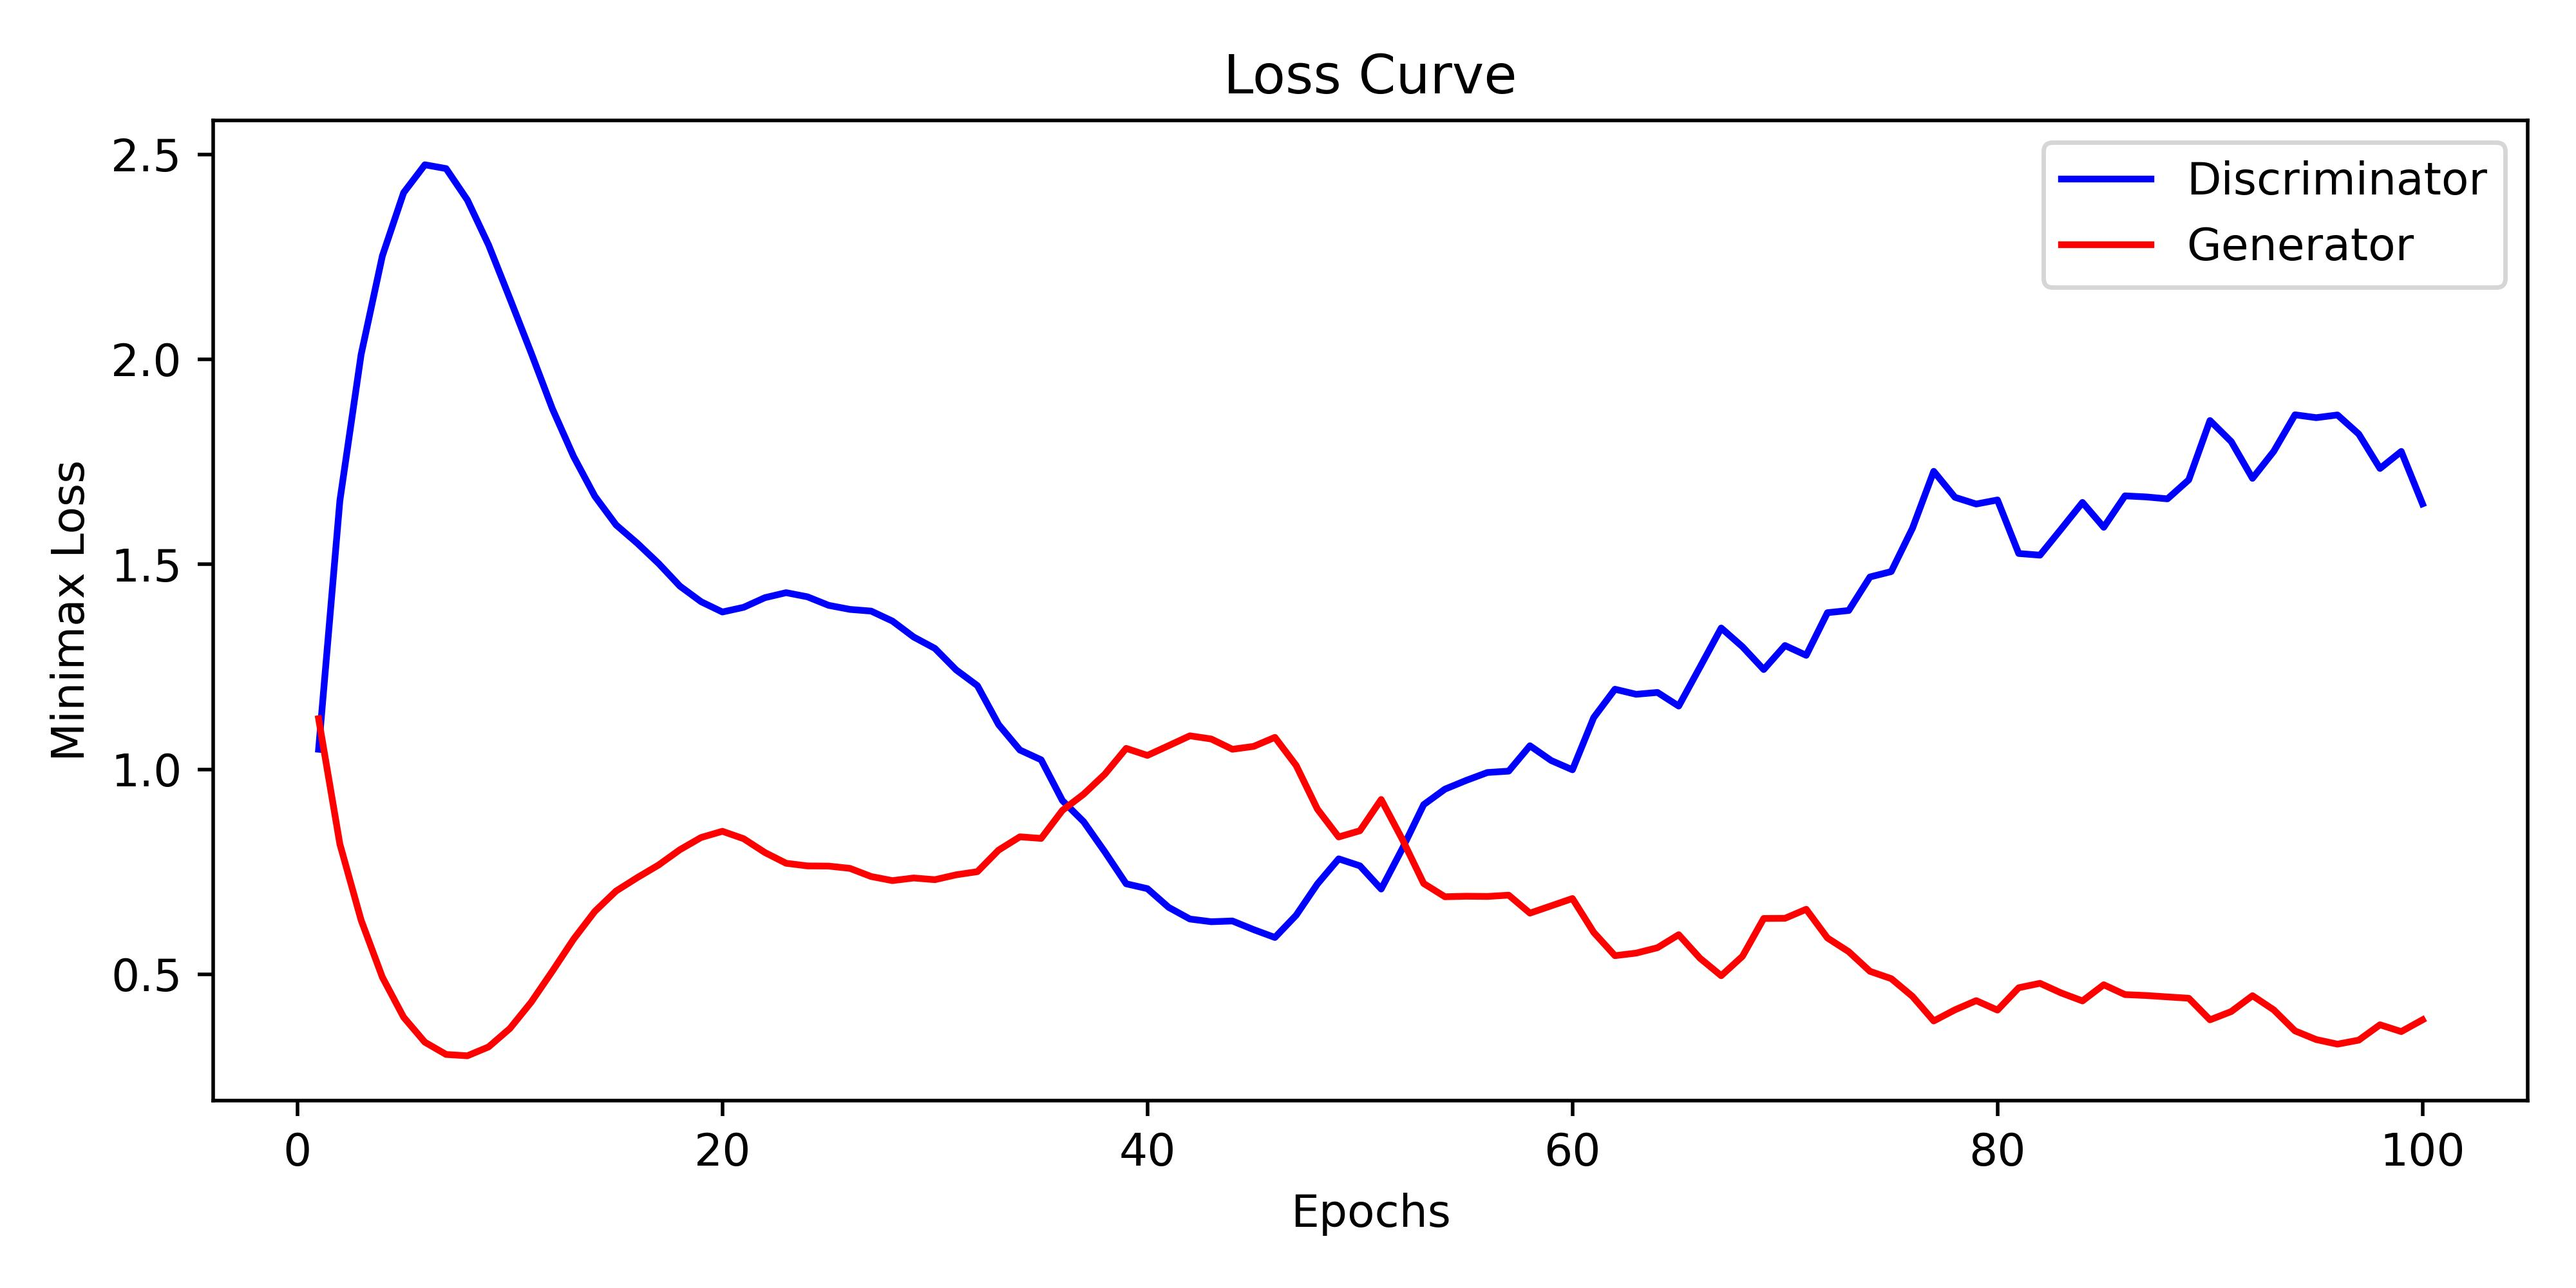
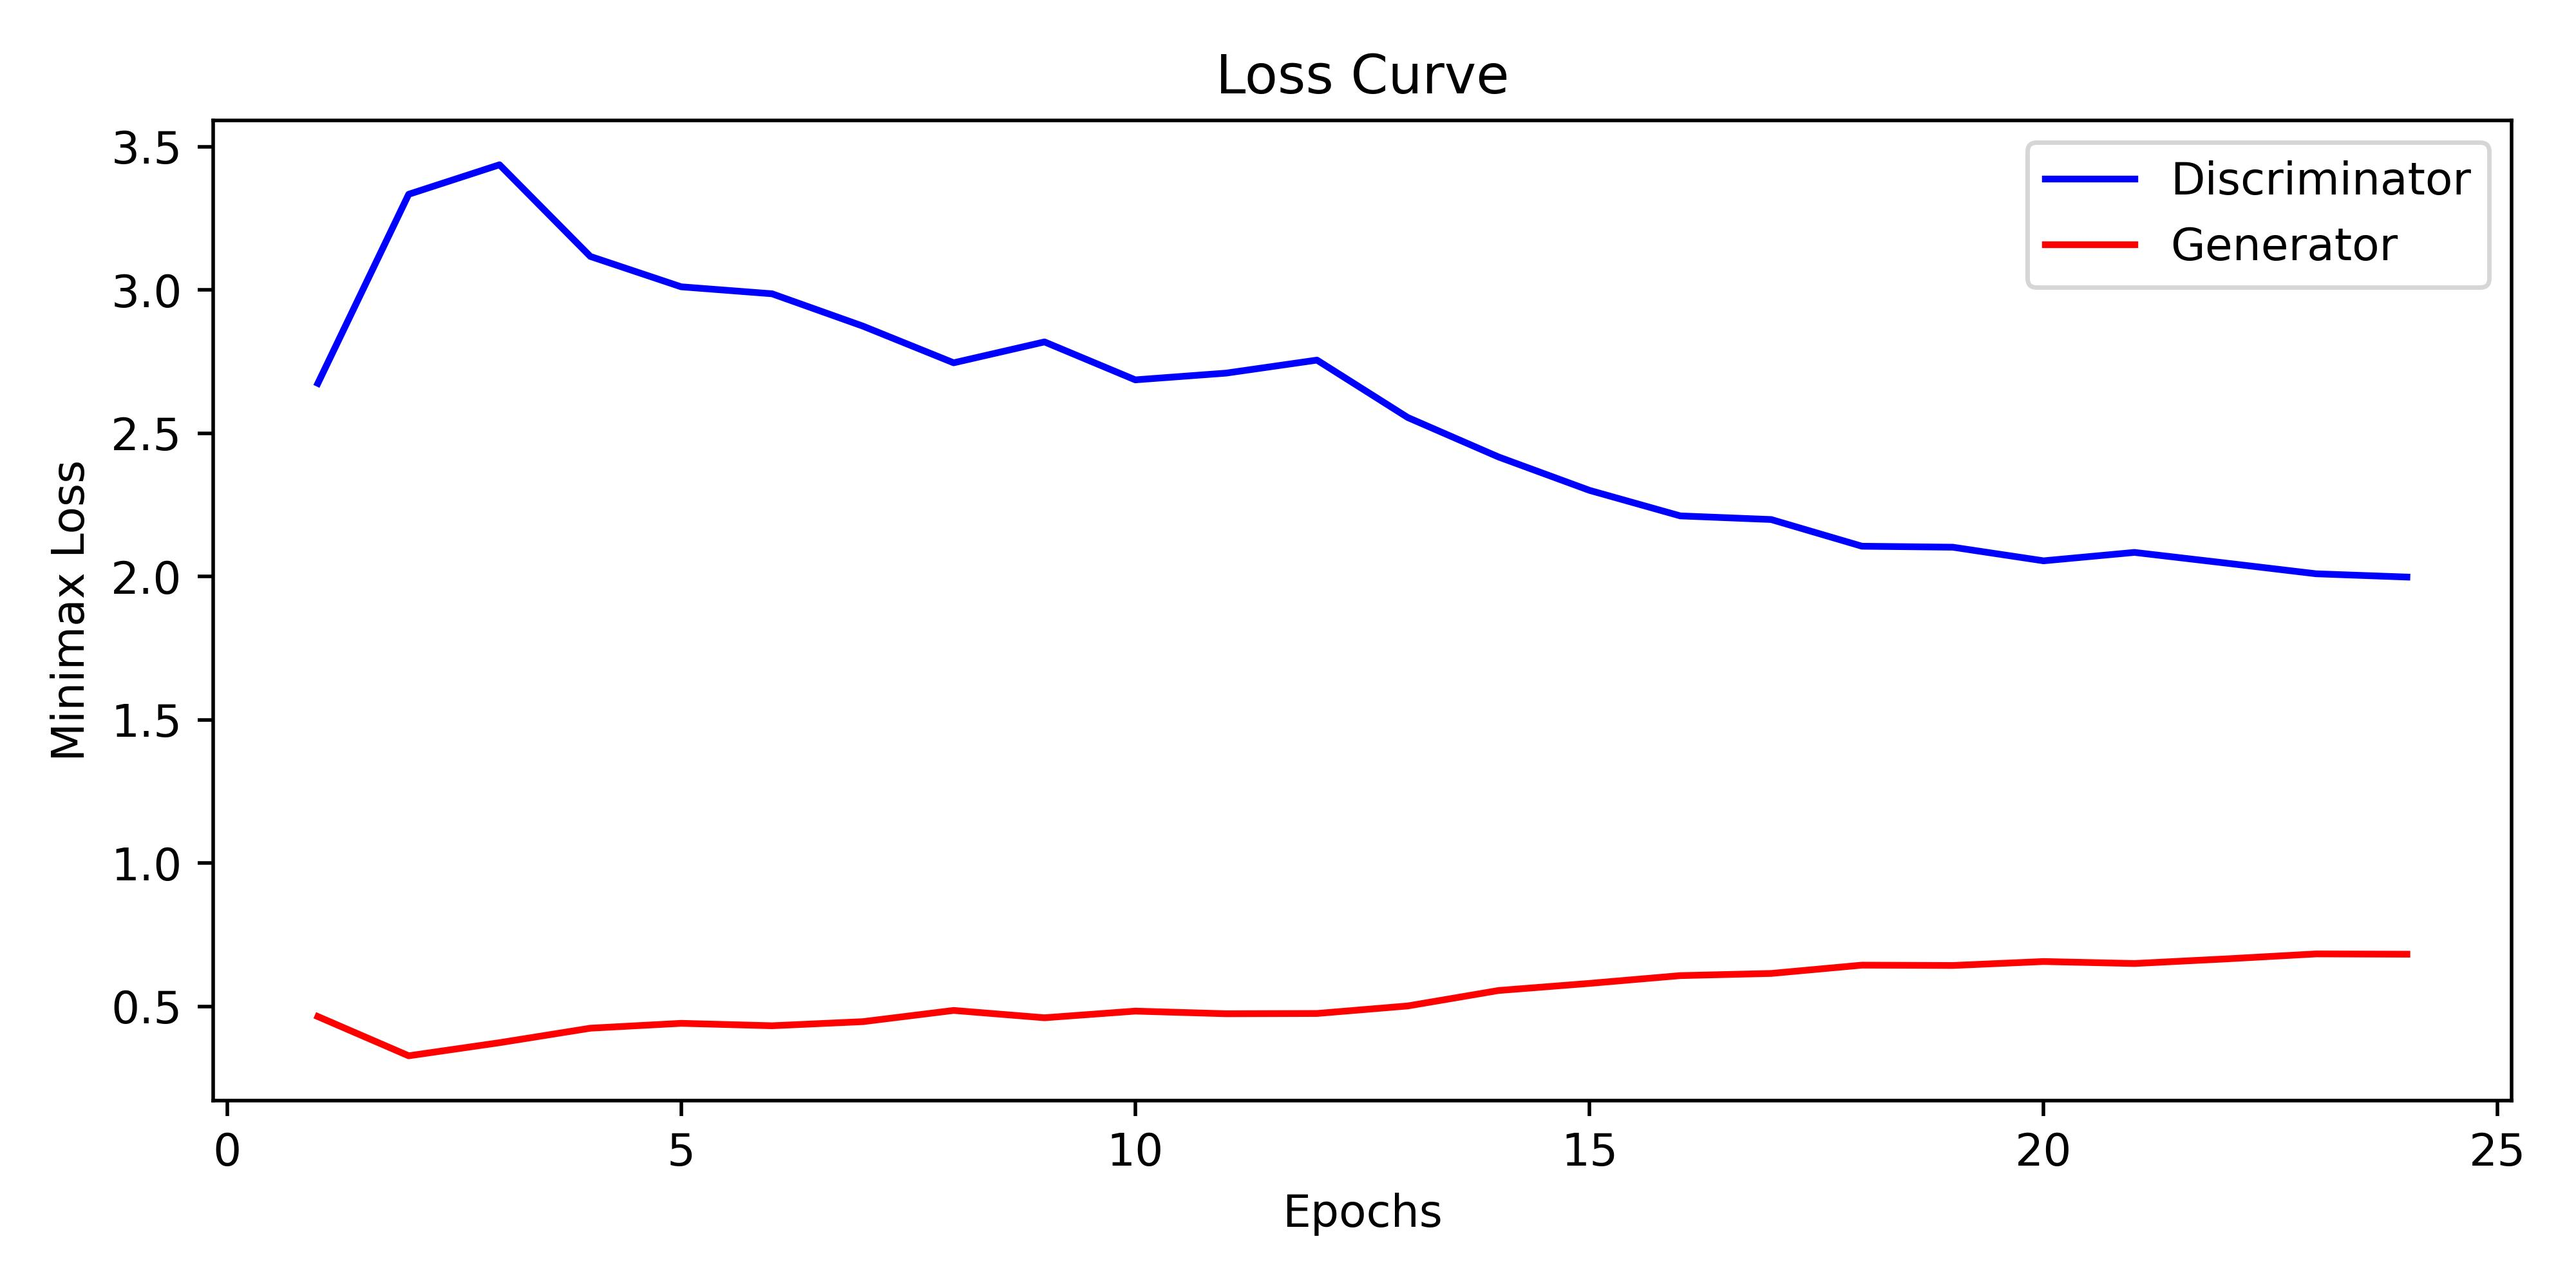
[Add] split experiments SGD & Adam

diff --git a/train.py b/train.py
@@ -49,10 +49,15 @@ def main(cfg):
     
     # Optimizer
     optimizer = None
-    if hp_cfg['optim'] == "SGD" and model_cfg['name'] in ['GAN']:
+    if hp_cfg['optim'] == "Adam" and model_cfg['name'] in ['GAN']:
         optimizer = {
-            'd_optim': optim.SGD(model.discriminator.parameters(), lr=hp_cfg['disc_lr'], momentum=hp_cfg['momentum']),
-            'g_optim': optim.SGD(model.generator.parameters(), lr=hp_cfg['gen_lr'], momentum=hp_cfg['momentum'])
+            'd_optim': optim.Adam(model.discriminator.parameters(), lr=hp_cfg['disc_lr'], betas=(0.5, 0.999)),
+            'g_optim': optim.Adam(model.generator.parameters(), lr=hp_cfg['gen_lr'], betas=(0.5, 0.999))
+        }
+    elif hp_cfg['optim'] == 'SGD' and model_cfg['name'] in ['GAN']:
+        optimizer = {
+            'd_optim': optim.SGD(model.discriminator.parameters(), lr=hp_cfg['disc_lr']),
+            'g_optim': optim.SGD(model.generator.parameters(), lr=hp_cfg['gen_lr'])
         }
     
     task_cfg = cfg['task']
@@ -78,8 +83,8 @@ def main(cfg):
             
         total_g_loss.append(g_loss)
         total_d_loss.append(d_loss)
-        save_loss_ckpt(save_cfg['name'], "generator", total_g_loss, save_cfg['loss_path'])
-        save_loss_ckpt(save_cfg['name'], "discriminator", total_d_loss, save_cfg['loss_path'])
+        save_loss_ckpt(save_cfg['name'], f"generator", total_g_loss, save_cfg['loss_path'])
+        save_loss_ckpt(save_cfg['name'], f"discriminator", total_d_loss, save_cfg['loss_path'])
     save_model_ckpt(model, save_cfg['name'], current_epoch, save_cfg['weights_path'])
 
     total_elapsed_time = int(time.time()) - total_start_time

diff --git a/subtasks/02_loss_curve/exec.py b/subtasks/02_loss_curve/exec.py
@@ -4,8 +4,10 @@ import numpy as np
 def main():
     plt.figure(figsize=(8, 4))
 
-    d_loss = np.load("saved/loss/train_loss_discriminator_gan.mnist.npy")
-    g_loss = np.load("saved/loss/train_loss_generator_gan.mnist.npy")
+    optim = 'sgd'
+    
+    d_loss = np.load("saved/loss/train_loss_discriminator_gan.mnist.{optim}.npy")
+    g_loss = np.load("saved/loss/train_loss_generator_gan.mnist.{optim}.npy")
 
     epochs = np.array([i + 1 for i in range(0, len(d_loss))])
 
@@ -19,7 +21,7 @@ def main():
     plt.legend()
     plt.tight_layout()
     
-    plt.savefig("assets/loss_curve/loss_curve.jpg", dpi=500)
+    plt.savefig(f"assets/loss_curve/loss_curve_{optim}.jpg", dpi=500)
 
 if __name__ == '__main__':
     main()
